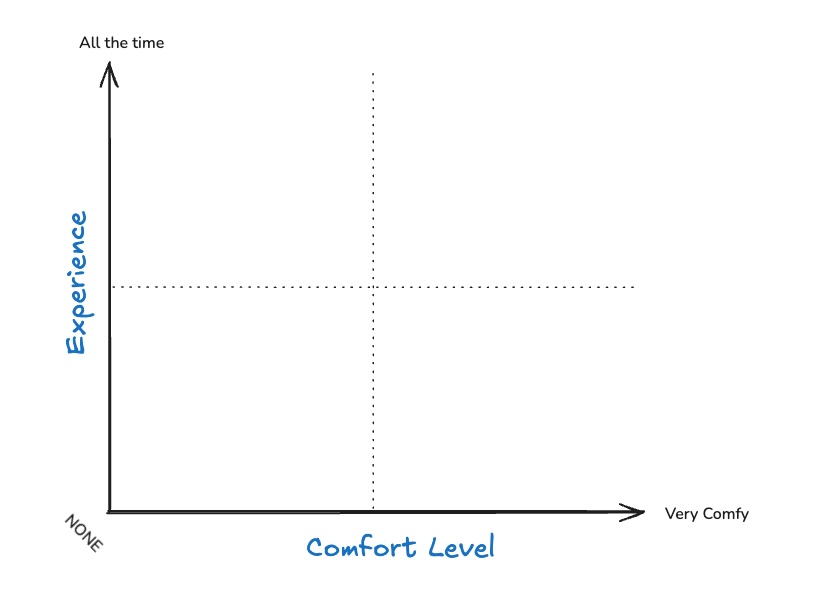
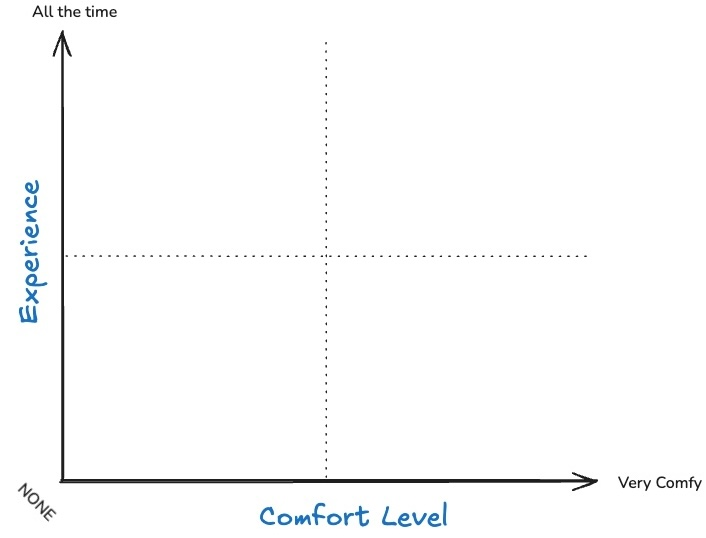
feat: host welcome formatting and copy

diff --git a/src/components/views/host-welcome.tsx b/src/components/views/host-welcome.tsx
@@ -13,17 +13,19 @@ export default function HostWelcome({
 			<h2 className="page-title">Welcome!</h2>
 			<div className="osn-welcome-view">
 				<div className="osn-welcome-panel">
-					<h3>Quick Pseudo-Anonymous Attendee Poll</h3>
+					<h3>Take Our 5-Second Poll</h3>
 					<p>
-						If you don't mind please scan this QR code and take this super quick two "question" survey so we can gauge
-						the room's experience and roles related to the topic. We aren't storing the data outside of a server-side
-						state object and you can provide a fake name!
+						<strong>2 Questions • 5 Seconds • 100% Anonymous</strong>
 					</p>
-					<QRCodeSVG value={pollUrl} size={450} />
+					<p>Scan the QR code and help us gauge the room's experience and roles.</p>
+					<QRCodeSVG value={pollUrl} size={520} />
 				</div>
 				<div className="osn-welcome-panel">
-					<h3>Poll Results</h3>
-					<p>As y'all answer those questions we'll see the results over here.</p>
+					<h3>See Live Results</h3>
+					<p>
+						<strong>As y'all answer the questions, results will display here.</strong>
+					</p>
+					<p>Just simple server-side state object storage :)</p>
 					<div className="ranking-frame">
 						{pollAnswerCoordinates.map(({ sessionId, roleColor, xCoord, yCoord }) => {
 							return (

diff --git a/src/styles/site-section-osn.less b/src/styles/site-section-osn.less
@@ -1,4 +1,8 @@
 .site-section-osn {
+	.page-title {
+		font-size: 10rem;
+		text-align: center;
+	}
 	.osn-welcome-view {
 		display: flex;
 	}
@@ -27,6 +31,9 @@
 			width: 20px;
 			border-radius: 50%;
 			position: absolute;
+		}
+		img {
+			margin: 0 auto;
 		}
 	}
 }

diff --git a/src/styles/footer.less b/src/styles/footer.less
@@ -5,9 +5,6 @@
 	padding: 1rem;
 	.layout-standard-site-section-osn & {
 		display: none;
-		@media screen and (min-width: 800px) {
-			display: block;
-		}
 	}
 	.footer-links-container {
 		display: flex;

diff --git a/src/styles/header.less b/src/styles/header.less
@@ -8,8 +8,5 @@
 	}
 	.layout-standard-site-section-osn & {
 		display: none;
-		@media screen and (min-width: 800px) {
-			display: block;
-		}
 	}
 }

diff --git a/src/styles/main.less b/src/styles/main.less
@@ -6,4 +6,7 @@
 	@media screen and (min-width: 600px) {
 		width: 80vw;
 	}
+	.layout-standard-site-section-osn & {
+		width: 100%;
+	}
 }
